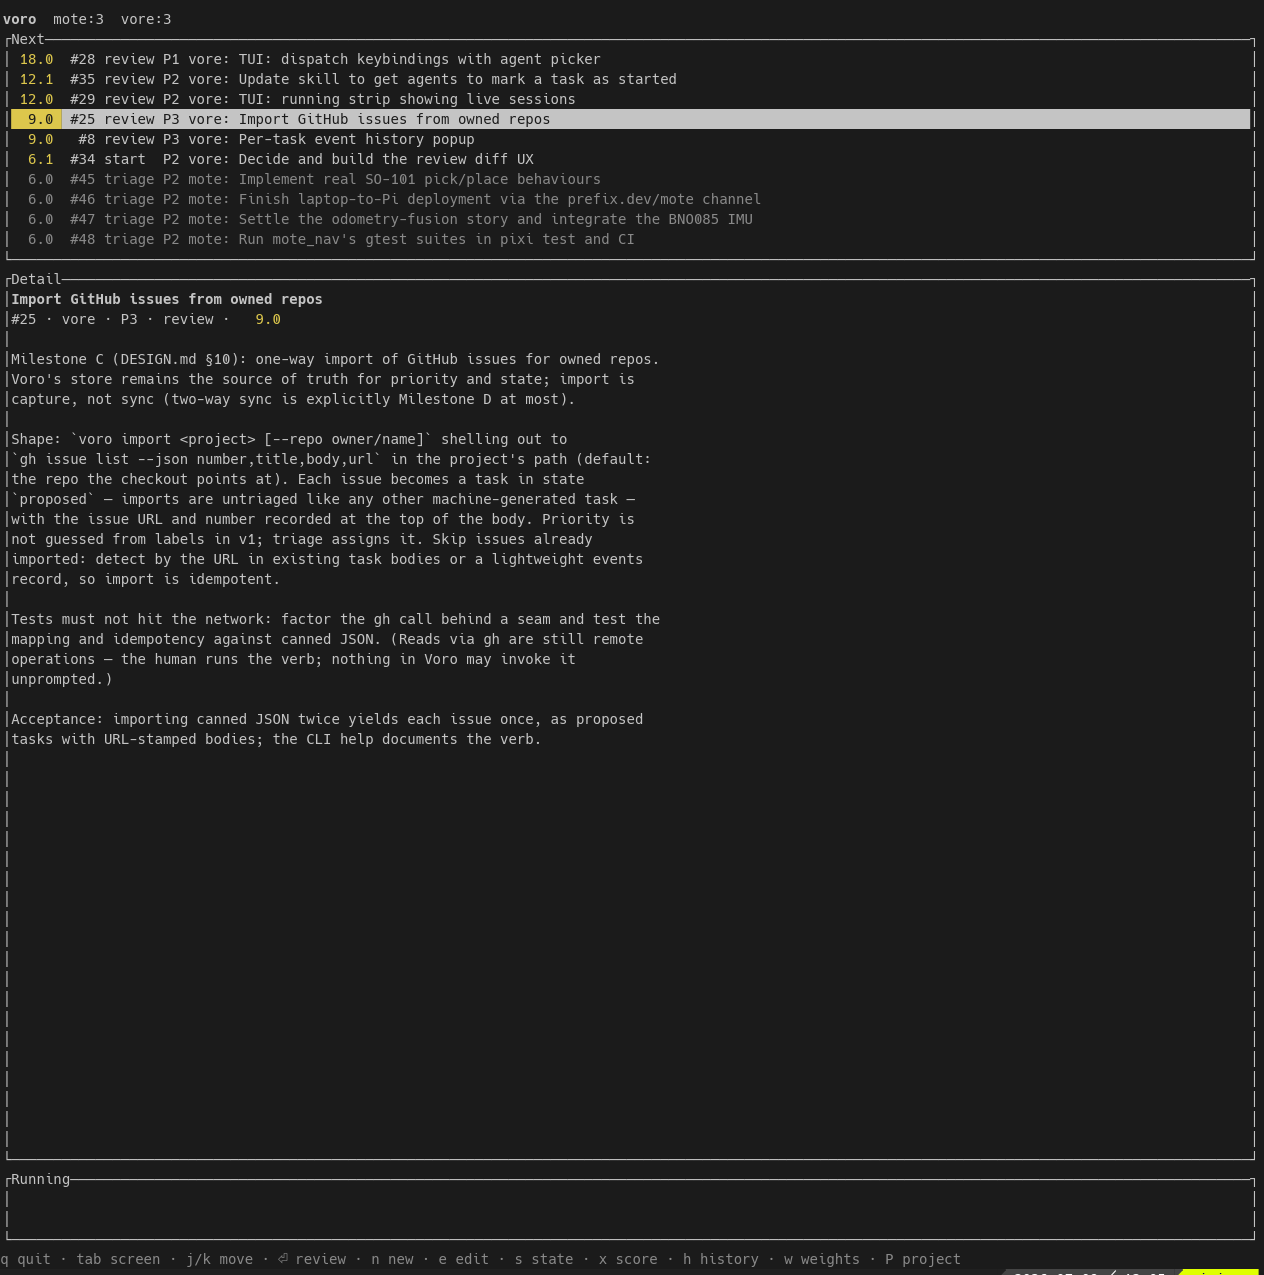
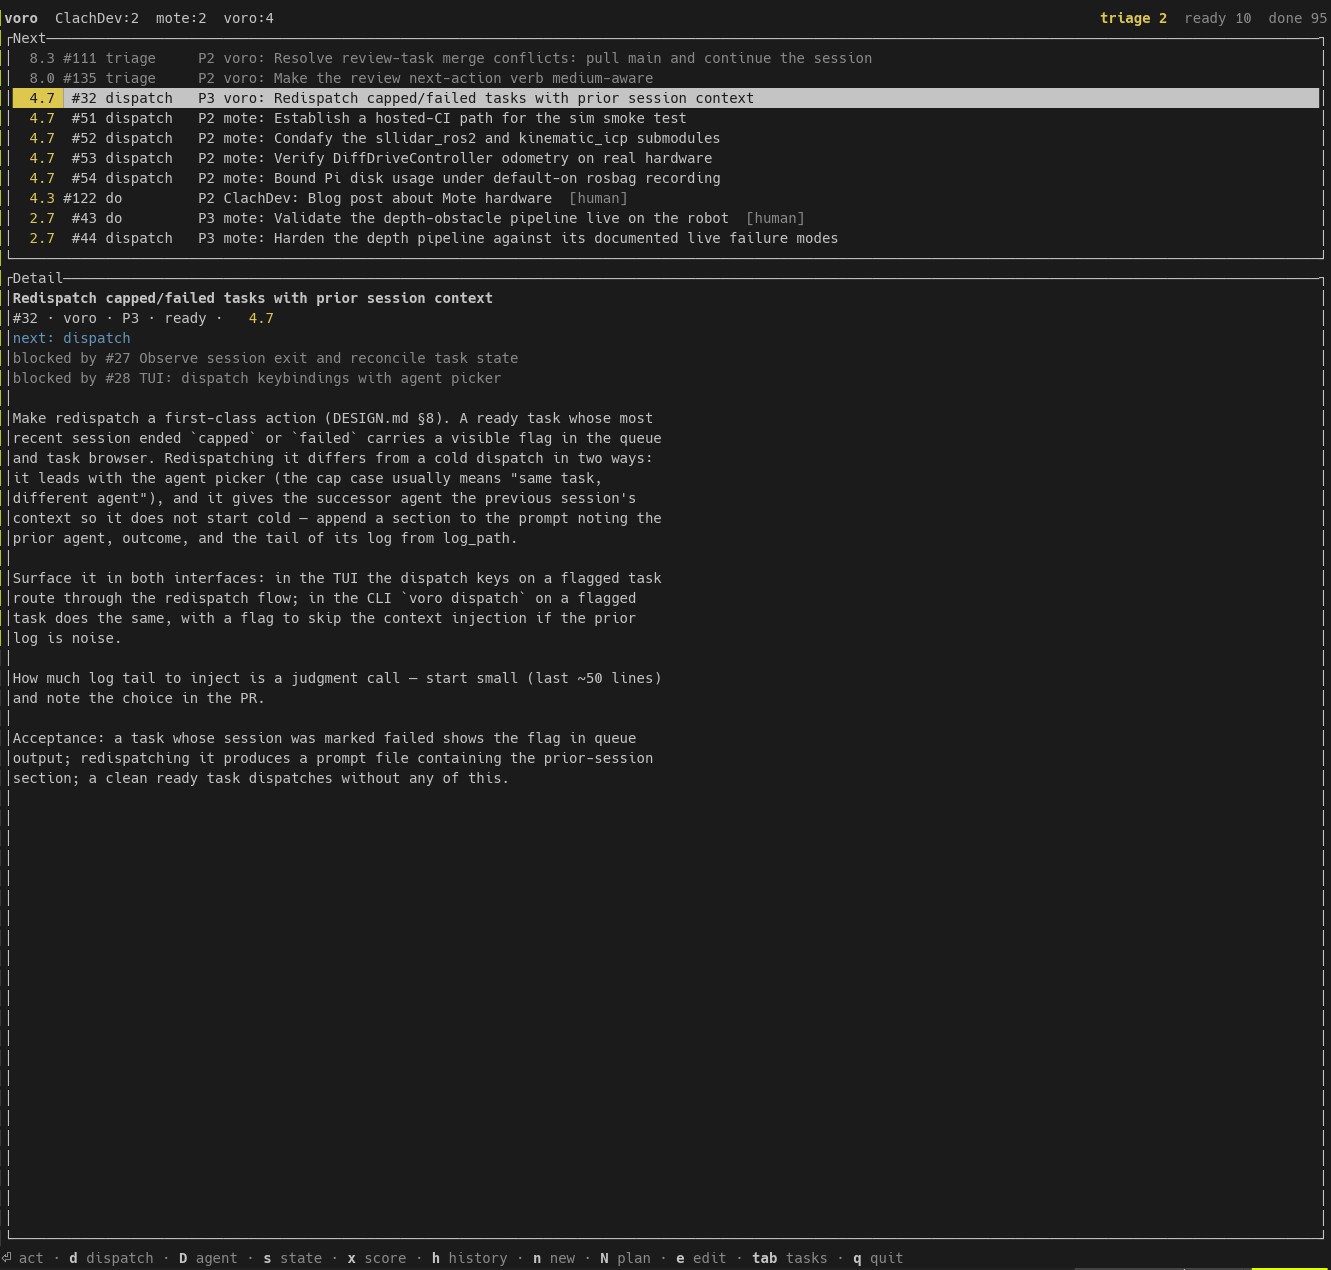
Prep release 0.1.0

diff --git a/README.md b/README.md
@@ -1,8 +1,14 @@
 # Voro
 
-A local command centre for AI-assisted development across many projects. Voro
-tracks tasks per project, weights each project by how much it matters *today*,
-and answers one question: **where should my attention go right now?**
+[![CI](https://github.com/ClachDev/Voro/actions/workflows/rust.yml/badge.svg)](https://github.com/ClachDev/Voro/actions/workflows/rust.yml)
+[![Crates.io](https://img.shields.io/crates/v/voro.svg)](https://crates.io/crates/voro)
+[![docs.rs](https://img.shields.io/docsrs/voro-core)](https://docs.rs/voro-core)
+[![License](https://img.shields.io/badge/license-MIT%20OR%20Apache--2.0-blue.svg)](LICENSE-MIT)
+
+An attention based session manager for AI-assisted development across many
+projects. Voro tracks tasks per project, weights each project by how much it
+matters *today*, and answers one question: **where should your attention go right
+now?**
 
 A single **next-action queue** drives everything: questions, reviews, and
 proposals that need a human first, then the highest-scoring ready tasks across
@@ -99,29 +105,8 @@ Rust workspace: `voro-core` (store, scheduler) and `voro` (ratatui TUI).
 ```bash
 cargo build --workspace
 cargo test --workspace
-cargo run -p voro
+cargo run
 ```
-
-## Releasing
-
-Releases are cut with [cargo-release](https://github.com/crate-ci/cargo-release)
-and built by [cargo-dist](https://github.com/axodotdev/cargo-dist). Both crates
-share one version and ship under a single `v{version}` tag; pushing that tag
-runs [`.github/workflows/release.yml`](.github/workflows/release.yml), which
-builds `x86_64-unknown-linux-gnu` and `aarch64-apple-darwin` tarballs with
-checksums and a `curl | sh` installer, then publishes a GitHub Release whose
-notes come from the matching [`CHANGELOG.md`](CHANGELOG.md) section.
-
-Record changes under the `Unreleased` heading in `CHANGELOG.md` as you go. To
-cut a release, from a clean `main` run `cargo release <level> --execute` (e.g.
-`patch`); cargo-release bumps the version, rolls `Unreleased` into a dated
-section, commits, tags, and publishes both crates to crates.io — `voro-core`
-first, then `voro` — which is what makes `cargo install voro` resolve. Publishing
-needs a crates.io token in the environment, so run `cargo login` (or set
-`CARGO_REGISTRY_TOKEN`) beforehand. cargo-release does not push, so review, then
-`git push --follow-tags` to trigger the binary build. The first `v0.1.0` release
-is special: the version is already `0.1.0`, so tag it directly with
-`git tag v0.1.0 && git push origin v0.1.0`.
 
 ## Dispatching to agents
 
@@ -131,6 +116,8 @@ fresh install dispatches with no configuration: `voro dispatch <task-id>` (or th
 dispatch key in the TUI) launches a headless session on a ready task. The agent
 reports back through the return-path verbs (`voro ask/done/propose`), and its work
 lands in `review` where `voro open` or `voro pr` puts the diff in front of you.
+
+![Claude with Voro in tmux showing sessions and tasks](docs/images/claude-voro.png)
 
 To extend or override the built-in agents and viewers, layer a
 `~/.config/voro/voro.toml` on top (`voro agent init` writes a skeleton). The

diff --git a/CHANGELOG.md b/CHANGELOG.md
@@ -7,9 +7,7 @@ and this project adheres to [Semantic Versioning](https://semver.org/spec/v2.0.0
 
 <!-- next-header -->
 
-## [Unreleased](https://github.com/ClachDev/Voro/compare/v0.1.0...HEAD) - ReleaseDate
-
-## [0.1.0](https://github.com/ClachDev/Voro/releases/tag/v0.1.0) - 2026-07-13
+## [Unreleased](https://github.com/ClachDev/Voro/compare/27b1105...HEAD) - ReleaseDate
 
 Initial release of Voro, a local, single-operator command centre that
 prioritises tasks across many projects and dispatches them to coding agents.